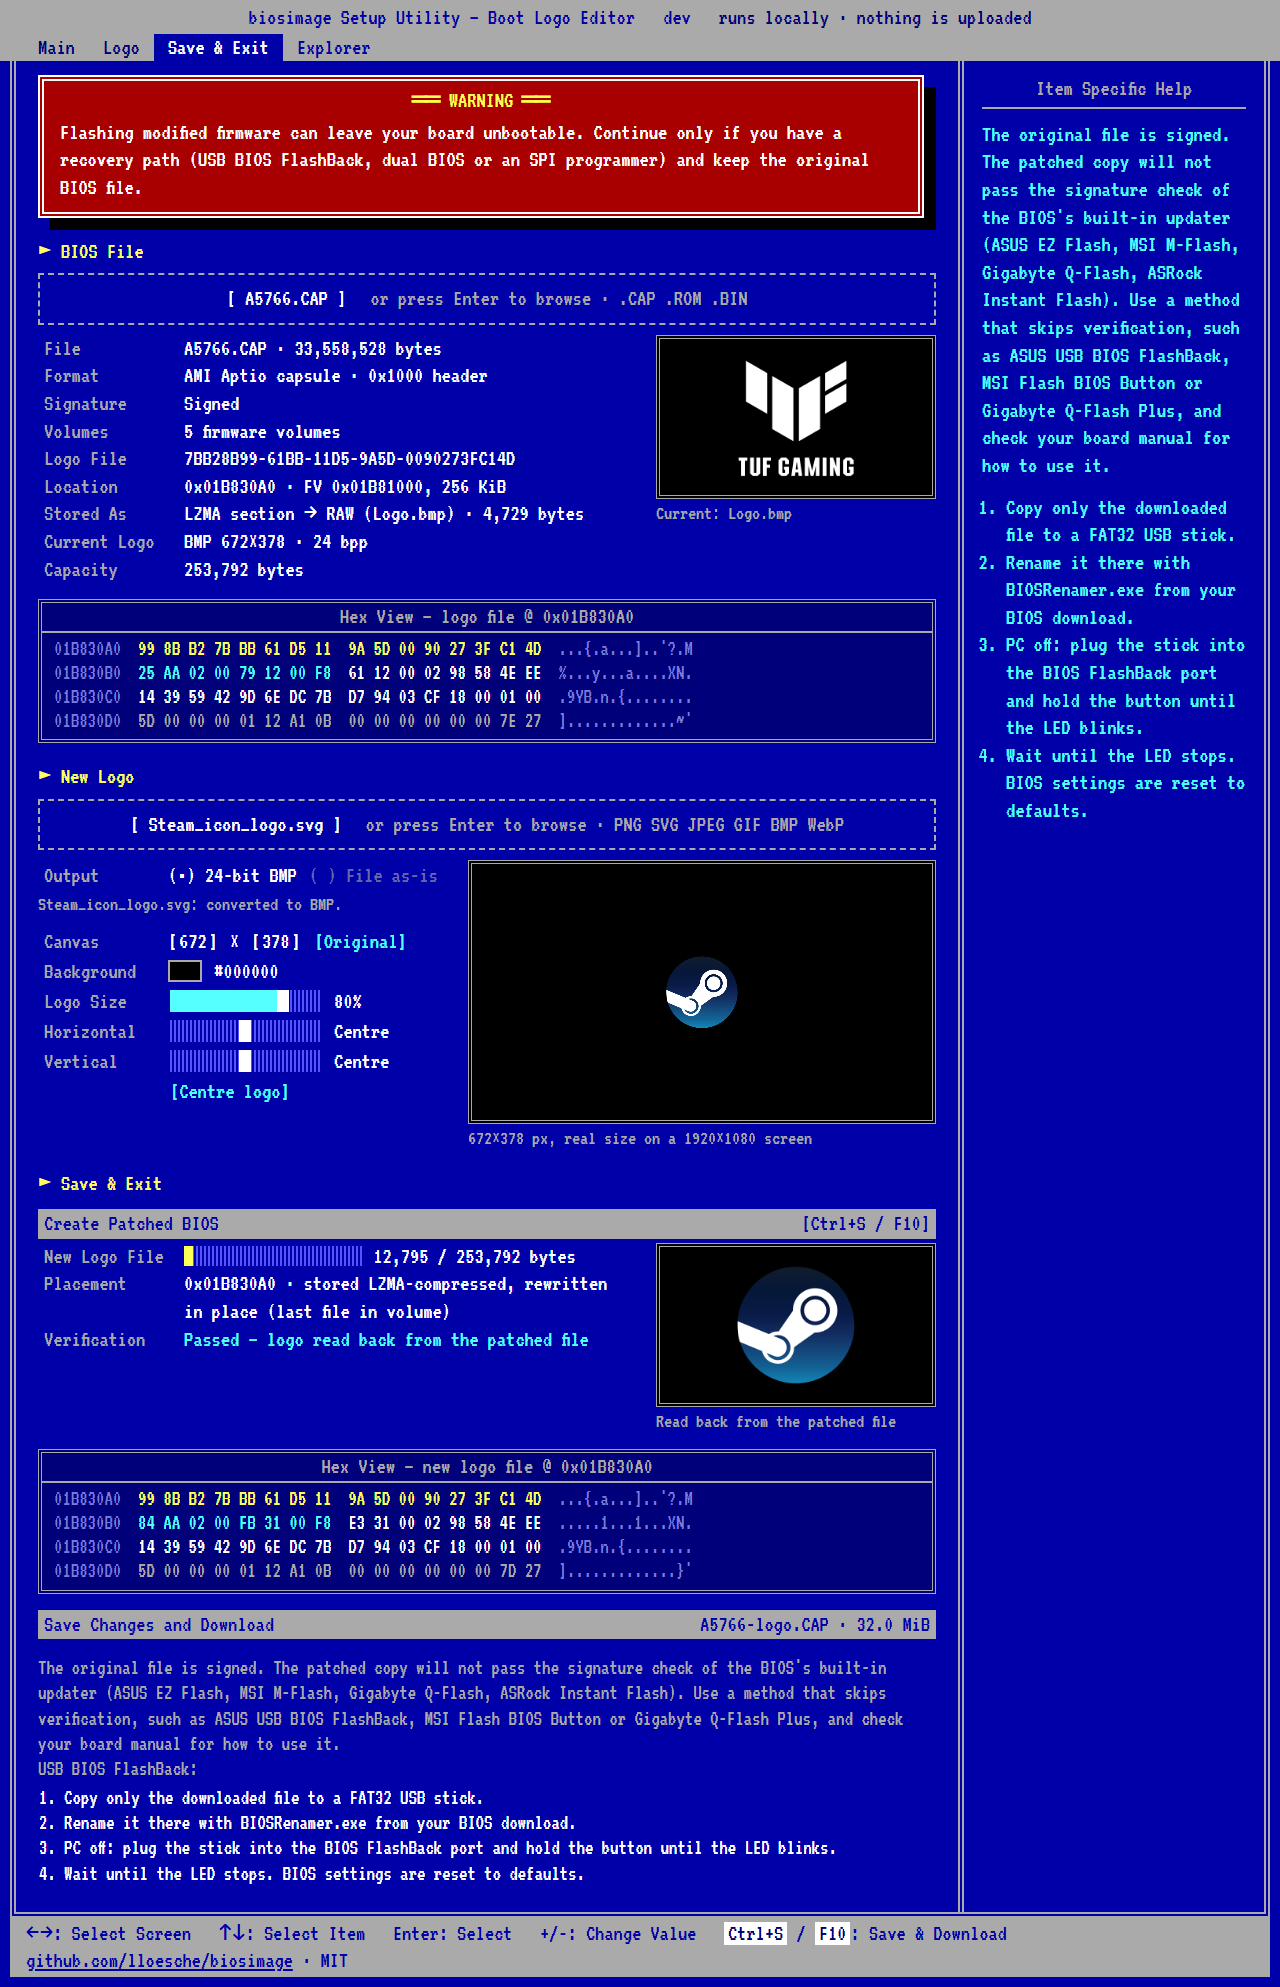
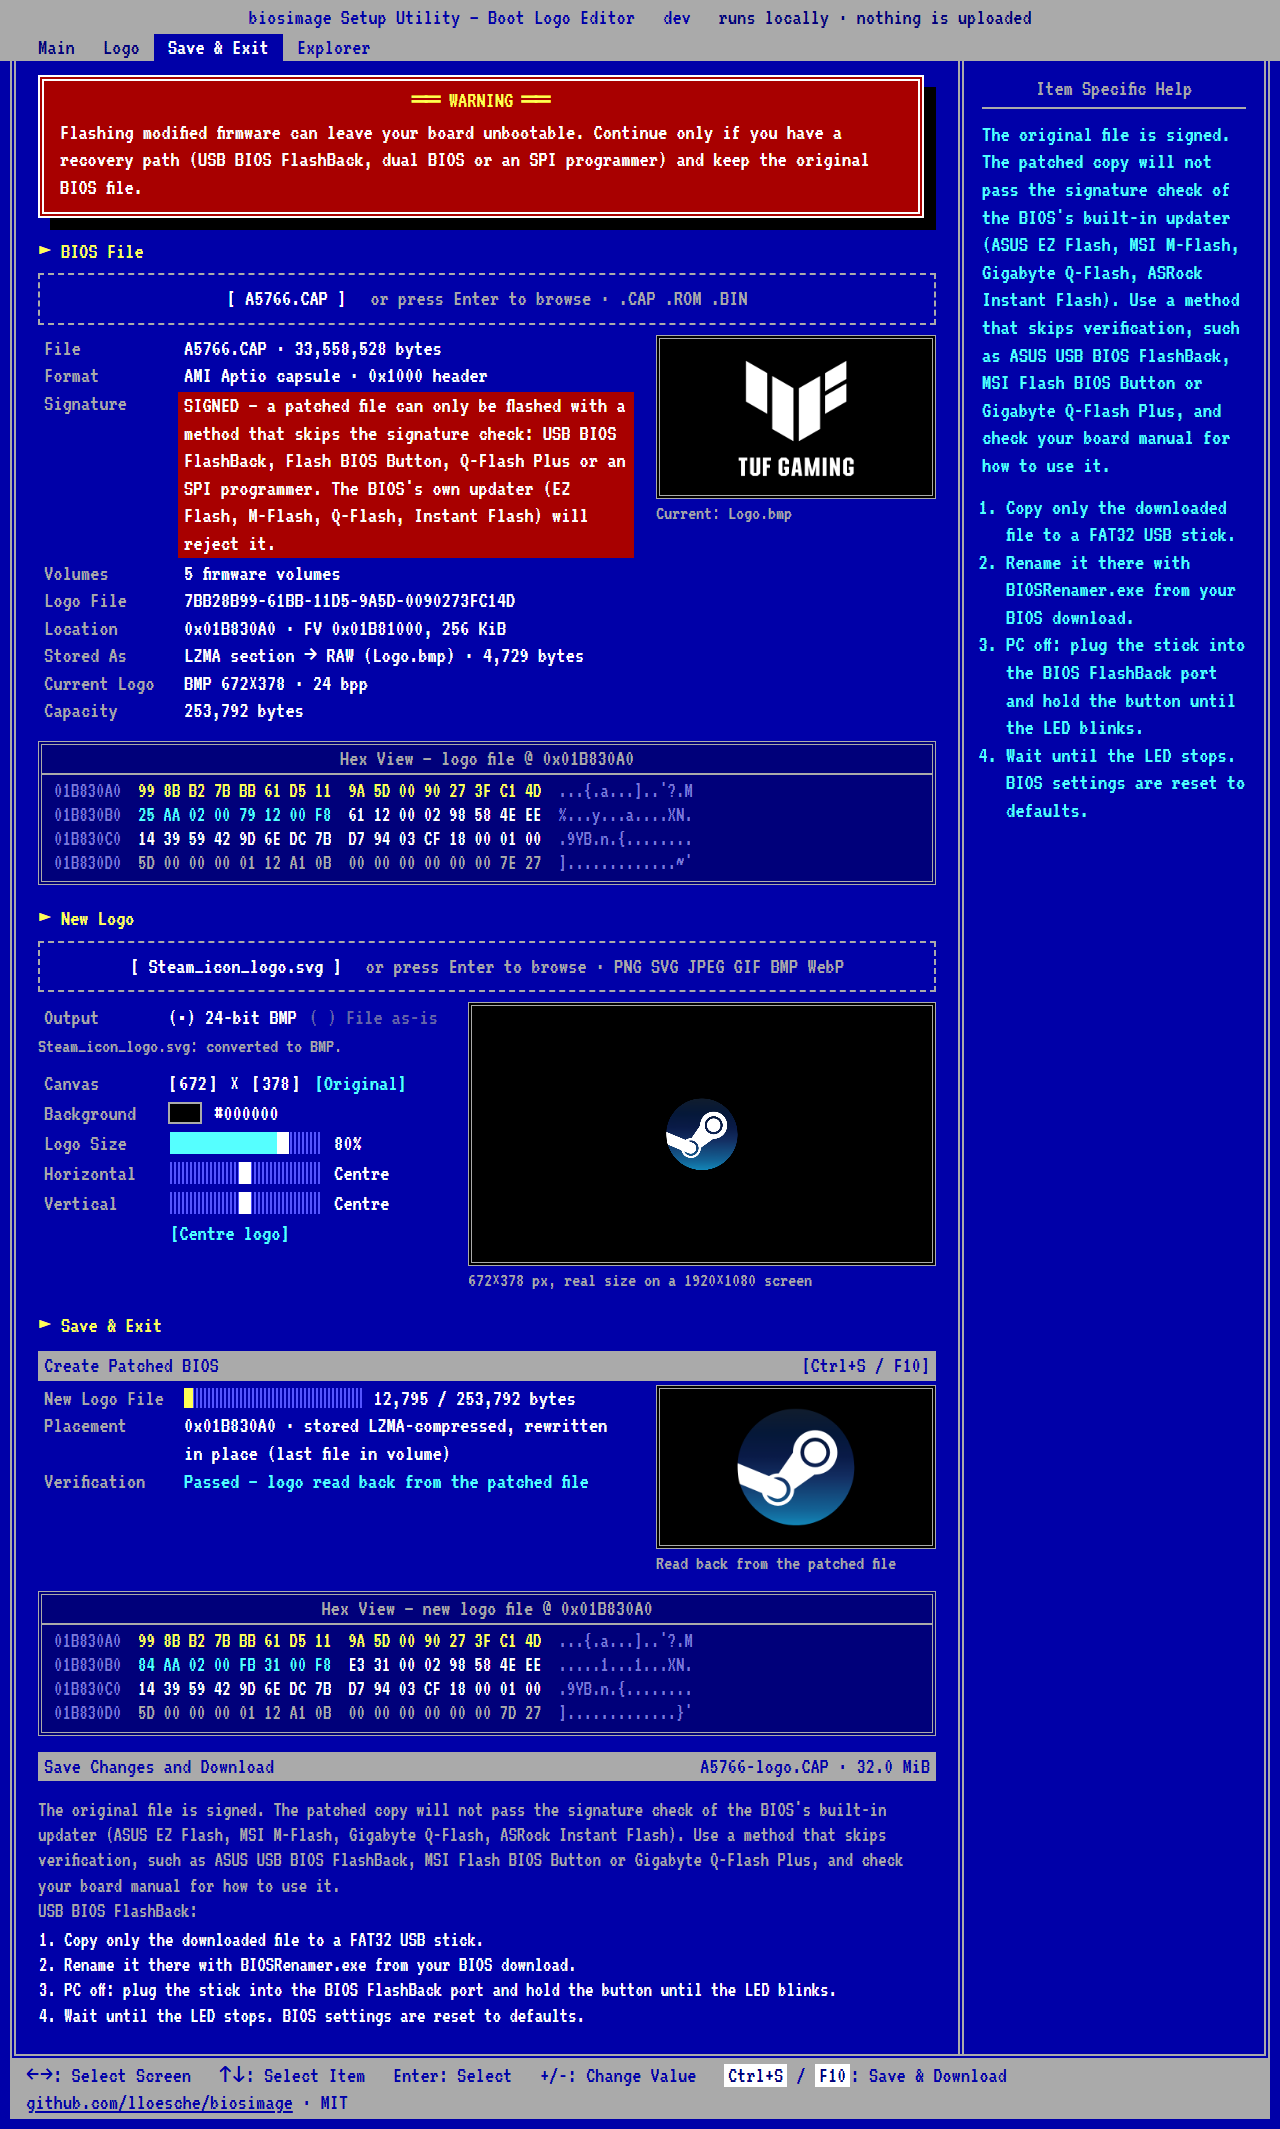
Clarify firmware signature warnings in the web app and CLI

diff --git a/web/app.js b/web/app.js
@@ -345,7 +345,11 @@ function renderFirmware(file) {
   const facts = [
     ['File', `${file.name} · ${fmtNum(file.size)} bytes`],
     ['Format', !cap ? 'Flash image' : cap.headerSize ? `${cap.kind} · ${hex8(cap.headerSize).replace(/^0x0+/, '0x')} header` : `Flash image · ${cap.kind}`],
-    ['Signature', cap ? (cap.signed ? 'Signed' : 'None') : 'None'],
+    cap?.signed
+      ? ['Signature', 'SIGNED – a patched file can only be flashed with a method that skips the signature ' +
+        'check: USB BIOS FlashBack, Flash BIOS Button, Q-Flash Plus or an SPI programmer. The BIOS\'s own ' +
+        'updater (EZ Flash, M-Flash, Q-Flash, Instant Flash) will reject it.', 'alert']
+      : ['Signature', 'none detected – your usual BIOS update method should accept the patched file'],
     ['Volumes', `${info.volumes} firmware volumes`],
     ['Logo File', logo.guid],
     ['Location', logo.container
@@ -365,7 +369,7 @@ function renderFirmware(file) {
   }
   if (info.logos.length > 1) facts.push(['Copies', `${info.logos.length} (all will be replaced)`]);
 
-  $('fw-facts').replaceChildren(...facts.flatMap(([k, v]) => [el('dt', { textContent: k }), el('dd', { textContent: v })]));
+  $('fw-facts').replaceChildren(...facts.flatMap(([k, v, cls]) => [el('dt', { textContent: k }), el('dd', { textContent: v, className: cls || '' })]));
 
   const img = $('fw-logo');
   if (logo.image && logo.imageInfo) {

diff --git a/web/style.css b/web/style.css
@@ -261,3 +261,6 @@ button.key:hover, button.key:focus-visible { background: var(--grey); color: var
   .nc-head span:nth-child(3), .nc-row span:nth-child(3) { display: none; }
   .nc-list { height: 14em; }
 }
+
+/* Facts that need attention, e.g. a signed BIOS that only FlashBack-style methods accept. */
+.rows dd.alert { color: var(--white); background: var(--red); padding: 0 6px; margin: 2px 0; }

diff --git a/main.go b/main.go
@@ -112,16 +112,17 @@ func cmdInfo(w io.Writer, args []string) error {
 		return err
 	}
 	fmt.Fprintf(w, "File:     %s (%d bytes)\n", pos[0], len(buf))
-	if c := uefi.DetectCapsule(buf); c != nil {
-		signed := "unsigned"
-		if c.Signed {
-			signed = "signed - a modified file will fail signature checks"
-		}
-		if c.HeaderSize > 0 {
-			fmt.Fprintf(w, "Capsule:  %s, %#x-byte header, %s\n", c.Kind, c.HeaderSize, signed)
-		} else {
-			fmt.Fprintf(w, "Signature: %s, %s\n", c.Kind, signed)
-		}
+	c := uefi.DetectCapsule(buf)
+	if c != nil && c.HeaderSize > 0 {
+		fmt.Fprintf(w, "Capsule:  %s, %#x-byte header\n", c.Kind, c.HeaderSize)
+	}
+	if c != nil && c.Signed {
+		fmt.Fprintf(w, "Signed:   YES (%s). A patched file can only be flashed with a method that skips\n", c.Kind)
+		fmt.Fprintln(w, "          the signature check: USB BIOS FlashBack, Flash BIOS Button, Q-Flash Plus or an")
+		fmt.Fprintln(w, "          SPI programmer. The BIOS's own updater (EZ Flash, M-Flash, Q-Flash, Instant Flash)")
+		fmt.Fprintln(w, "          will reject it.")
+	} else {
+		fmt.Fprintln(w, "Signed:   no signature detected; your usual BIOS update method should accept a patched file")
 	}
 	fmt.Fprintf(w, "Volumes:  %d top-level firmware volume(s)\n", len(uefi.FindVolumes(buf)))
 	logos, err := uefi.FindLogos(buf, guid)

diff --git a/README.md b/README.md
@@ -20,7 +20,11 @@ There is also a command-line tool:
 ```console
 $ biosimage info A5766.CAP
 File:     A5766.CAP (33558528 bytes)
-Capsule:  AMI Aptio capsule, 0x1000-byte header, signed - a modified file will fail signature checks
+Capsule:  AMI Aptio capsule, 0x1000-byte header
+Signed:   YES (AMI Aptio capsule). A patched file can only be flashed with a method that skips
+          the signature check: USB BIOS FlashBack, Flash BIOS Button, Q-Flash Plus or an
+          SPI programmer. The BIOS's own updater (EZ Flash, M-Flash, Q-Flash, Instant Flash)
+          will reject it.
 Volumes:  5 top-level firmware volume(s)
 
 Logo 1:   file 7BB28B99-61BB-11D5-9A5D-0090273FC14D at 0x1b830a0 (4729 bytes) in volume at 0x1b81000 (256 KiB)
